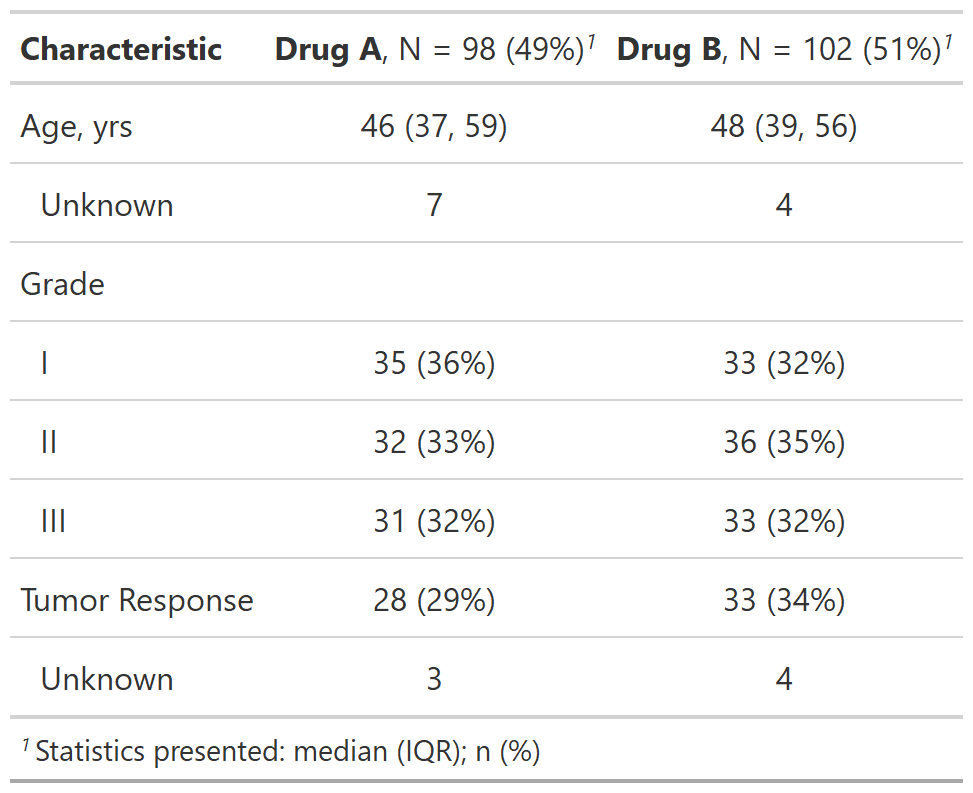
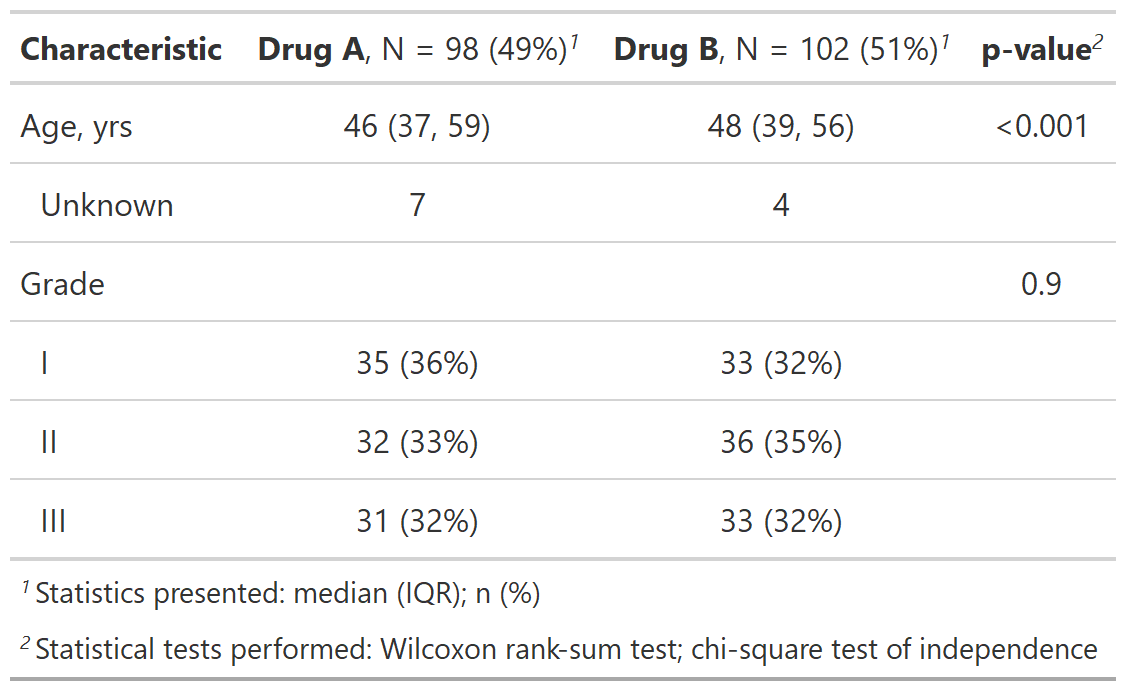
doumentation updates

diff --git a/README.md b/README.md
@@ -119,13 +119,15 @@ table. See the
 tutorial for many more options, or below for one example.
 
 ``` r
-table2 <- tbl_summary(
-  trial2,
-  by = trt, # split table by group
-  missing = "no" # don't list missing data separately
-) %>%
+table2 <- 
+  tbl_summary(
+    trial2,
+    by = trt, # split table by group
+    missing = "no" # don't list missing data separately
+  ) %>%
   add_n() %>% # add column with total number of non-missing observations
-  add_p() %>% # test if there's difference between groups
+  add_p() %>% # test for a difference between groups
+  modify_header(label = "**Variable**") %>% # update the column header
   bold_labels() 
 ```
 
@@ -211,6 +213,7 @@ thank you to all contributors\!
 [@joelgautschi](https://github.com/joelgautschi),
 [@jwilliman](https://github.com/jwilliman),
 [@karissawhiting](https://github.com/karissawhiting),
+[@khizzr](https://github.com/khizzr),
 [@larmarange](https://github.com/larmarange),
 [@leejasme](https://github.com/leejasme),
 [@ltin1214](https://github.com/ltin1214),
